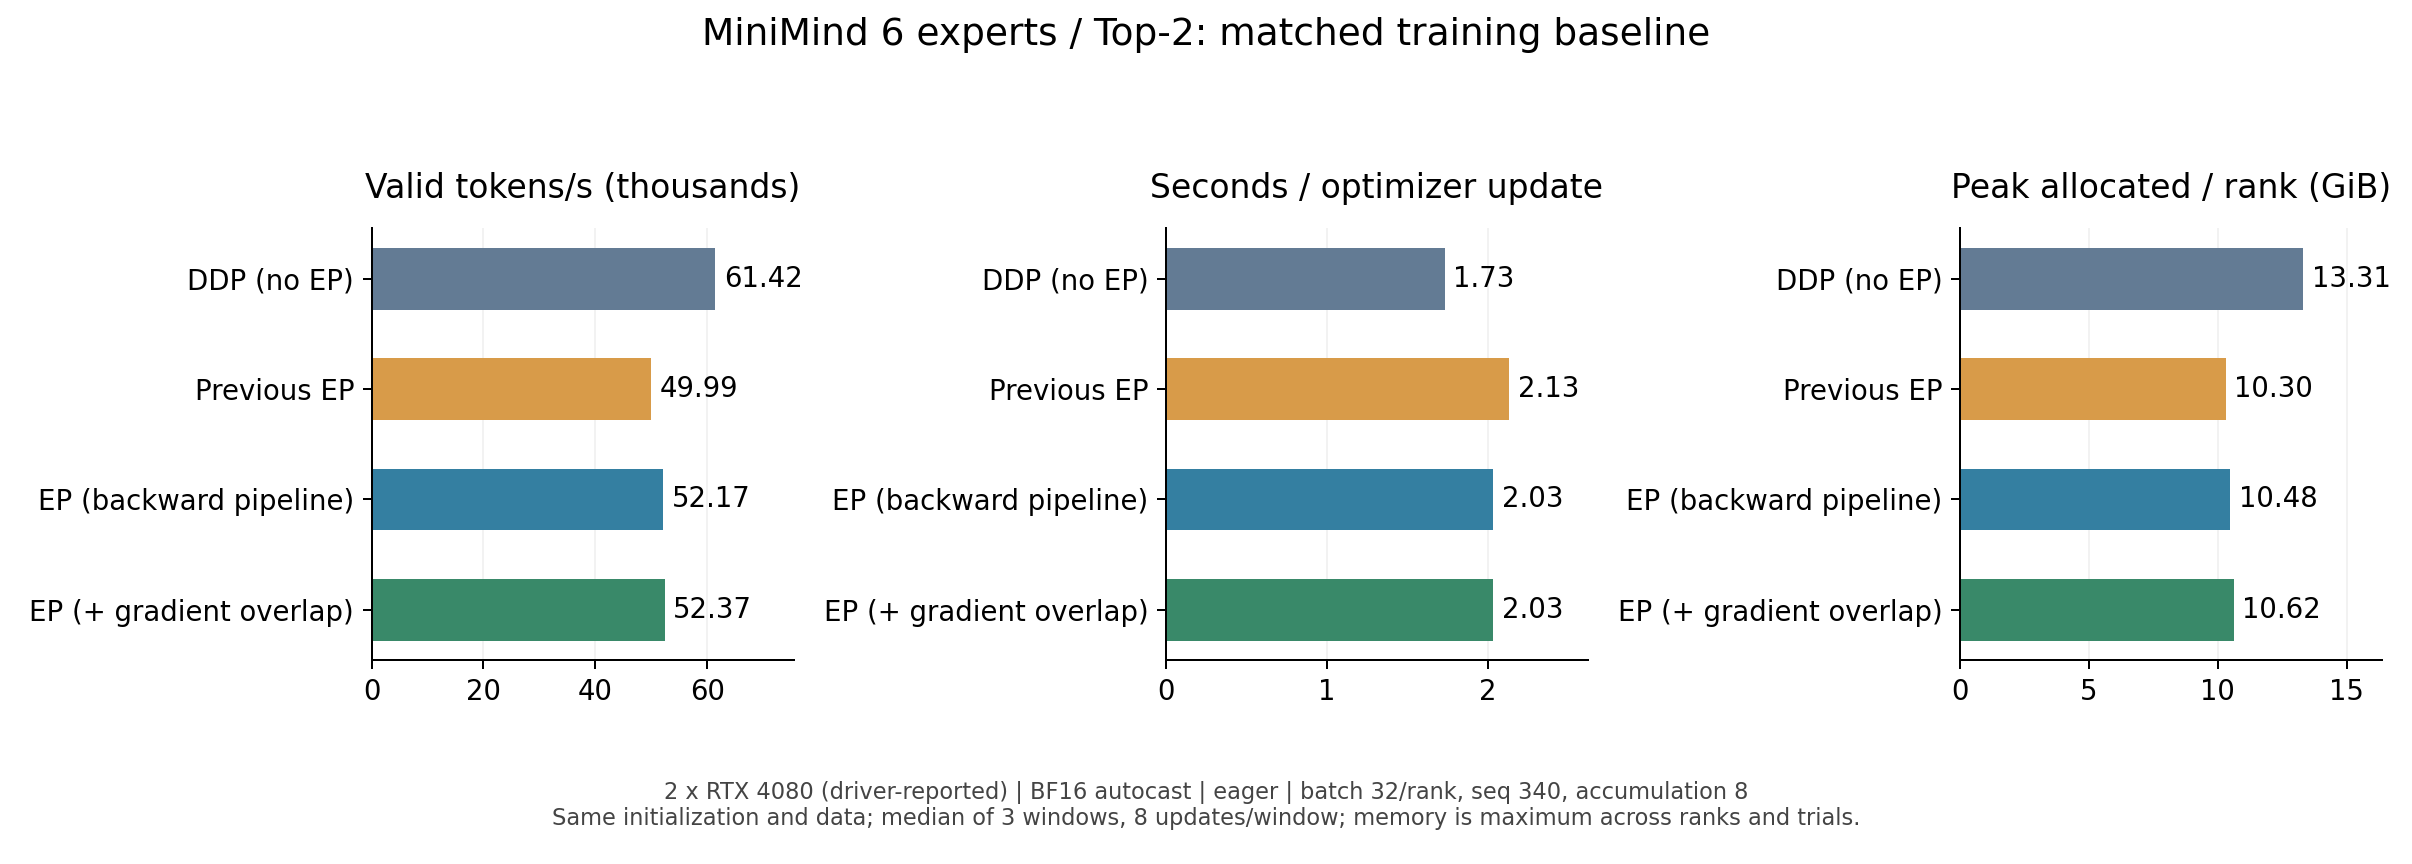
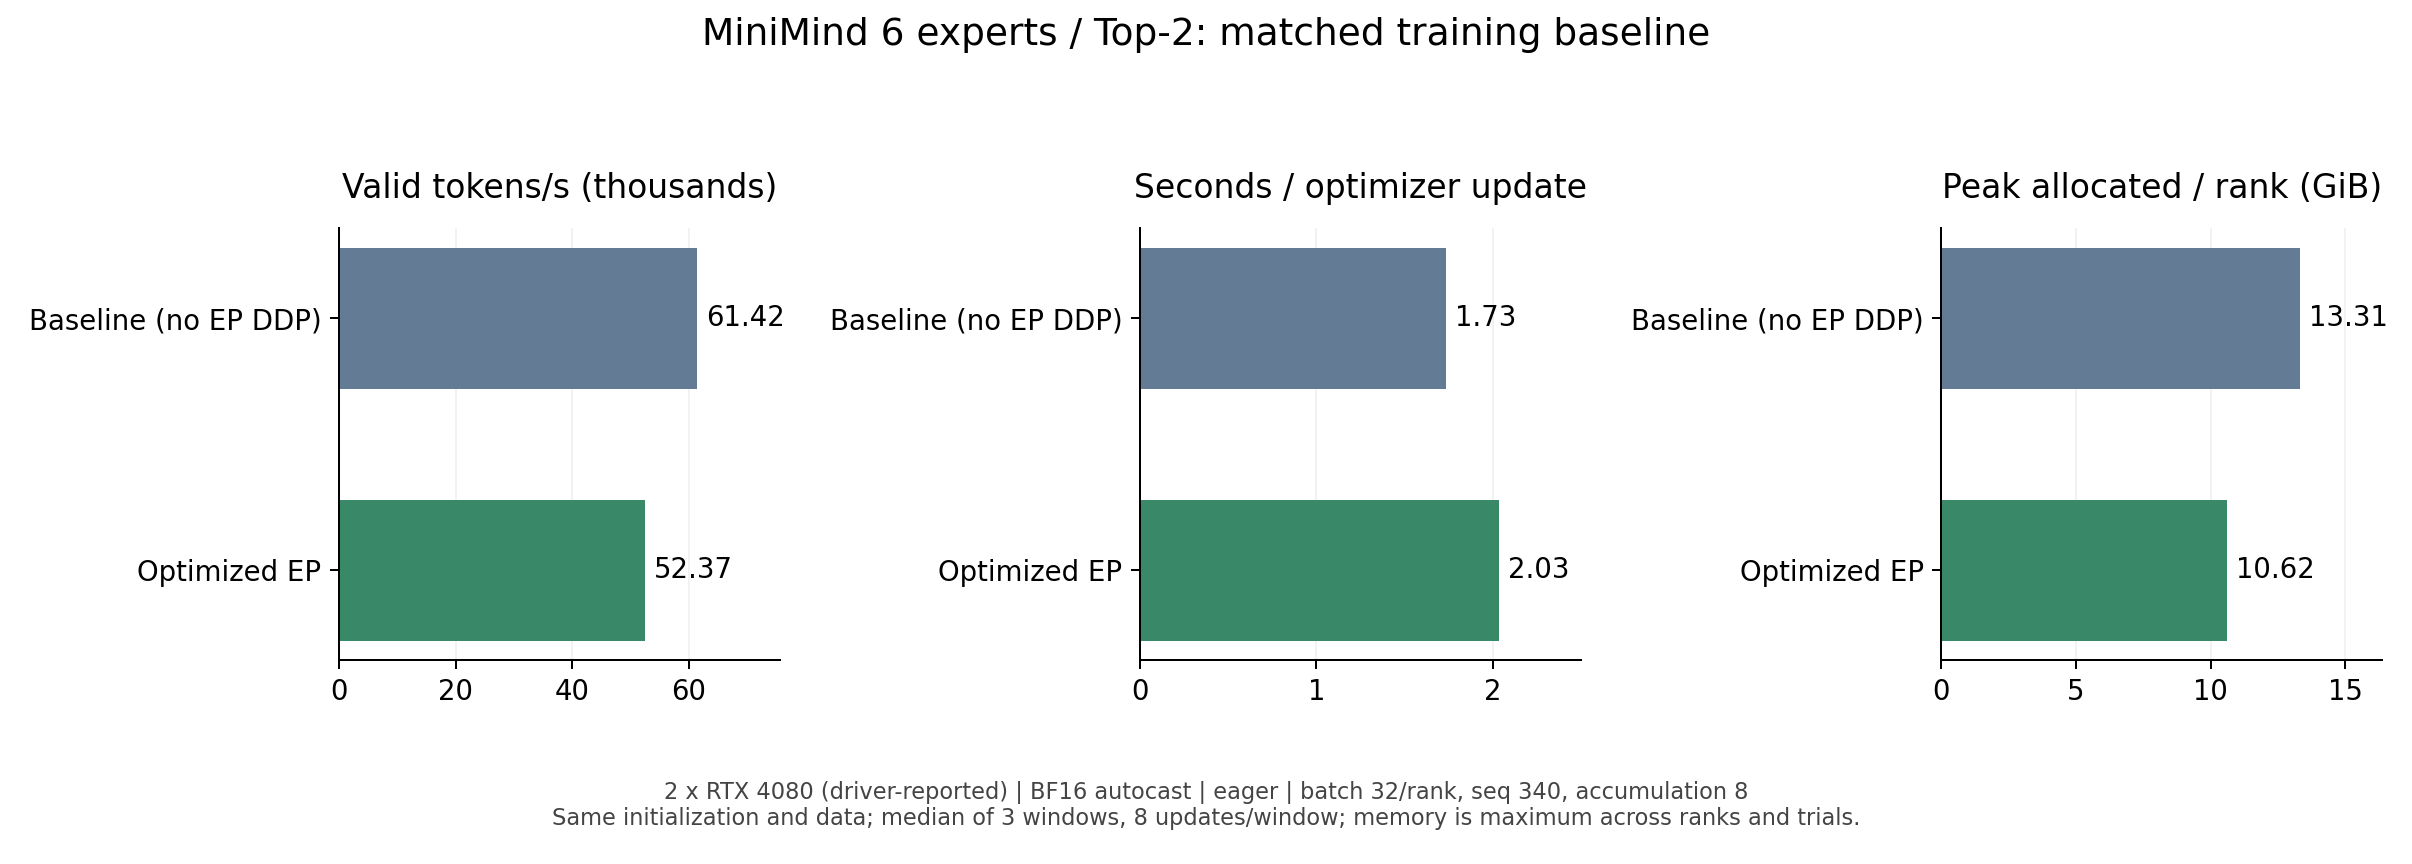
精简公开EP对比为基础版与最优版

diff --git a/readme_ep.md b/readme_ep.md
@@ -46,6 +46,7 @@ CUDA_VISIBLE_DEVICES=2,3 OMP_NUM_THREADS=1 TORCHINDUCTOR_COMPILE_THREADS=1 \
 python -m torch.distributed.run --standalone --nproc_per_node=2 train_pretrain.py \
   --use_ep --num_experts 6 --num_experts_per_tok 2 \
   --ep_comm_dtype native --ep_routing dedup_train --use_compile 1 \
+  --ep_pipelined_return 1 --ep_overlap_grad 1 \
   --from_weight none --from_resume 0 \
   --save_weight pretrain_ep6_top2_new \
   --save_dir ../out/ep6_top2_new --checkpoint_dir ../checkpoints/ep6_top2_new
@@ -55,7 +56,7 @@ python -m torch.distributed.run --standalone --nproc_per_node=2 train_pretrain.p
 
 调整专家数 / Top-K 使用对应参数；Top-K 大于 2 时选择 `compact`。全量微调沿用 `trainer/train_full_sft.py --use_ep` 的原生 EP 支持。模型 compile 使用原 `--use_compile` 开关；动态 splits 和专家空分支存在编译边界，不能将其称为完整 EP 的 fullgraph 捕获。
 
-优化预训练默认 `--ep_async_counts 1 --ep_pipelined_return 0 --ep_overlap_grad 0`。测试完整更新重叠时显式指定 `--ep_pipelined_return 1 --ep_return_bucket_mib 16 --ep_overlap_grad 1`；各 Rank 的开关、桶容量和精度必须一致。输出按实际行数发送，不传 padding；4/8/12/16 MiB 容量扫描用于选择当前配置的容量。
+优化预训练默认 `--ep_async_counts 1 --ep_pipelined_return 0 --ep_overlap_grad 0`。测试完整更新重叠时显式指定 `--ep_pipelined_return 1 --ep_return_bucket_mib 16 --ep_overlap_grad 1`；各 Rank 的开关、桶容量和精度必须一致。输出按实际行数发送，不传 padding。
 
 训练在优化器更新时同步共享参数梯度：按设备和 dtype 分组，以 `--ep_grad_bucket_mib 16` 为默认桶容量合并 All-Reduce，超大参数单独通信；本地专家梯度只除以 EP Rank 数。全局裁剪批量计算 FP32 范数并缩放梯度，共享参数计一份、专家参数计入各 Rank 的分片。归约顺序可能带来 FP32 末位差异，专家计算与 BF16 autocast 规则保持原样。
 
@@ -88,52 +89,27 @@ controller.uninstall()
 
 现有 KN 权重和 Grouped GEMM 接入保持为独立可选功能。训练默认使用原 PyTorch 专家；CUDA GEMM 全层替换需独立数值验收。KN 转换工具使用 `python -m scripts.convert_checkpoint_kn --help`。
 
-## 同配置训练对比
+## 基础版与最优版对比
 
-两张 RTX 4090D，hidden=768、8 层、6 专家 Top-2；每 Rank batch=32、seq=340、梯度累积=8，AdamW、学习率 5e-4、裁剪 1。FP32 参数和优化器状态，BF16 autocast，原 PyTorch 专家；计时关闭 compile / profile。两方案使用相同初值、输入、辅助损失和每次更新一次的梯度同步。
+基础版为当前代码的无 EP DDP 路径；默认非 EP 的输出、损失和梯度另与首次 EP 提交前的 `89d674b` 验证一致。最优版指本轮已测 EP 配置中中位吞吐最高的组合：Top-2 按 Rank 去重、异步完整计数、前向与反向回传流水、共享梯度重叠。对应 `--ep_routing dedup_train --ep_async_counts 1 --ep_pipelined_return 1 --ep_overlap_grad 1`，回传和梯度桶均为 16 MiB。
 
-3 轮交替测量，每轮 4 次预热、8 次正式更新。吞吐统计有效移位标签 Token；吞吐和每次更新时间分别取中位数，峰值显存取测量区间跨 Rank / 轮次的最大值。
+两张驱动报告为 RTX 4080 的 SM89 GPU，双向 CUDA P2P 不可用；Python 3.12.3、PyTorch 2.9.0+cu128。hidden=768、8 层、6 专家 Top-2，每 Rank batch=32、seq=340、梯度累积=8；FP32 参数与 AdamW 状态、BF16 autocast、原 PyTorch 专家，裁剪阈值 1。
+
+两版使用同初值、同输入，固定学习率 5e-4，辅助损失统一为 `local_topk_sum`，关闭 compile / profiler。每轮预热 4 次、测量 8 次完整更新，共 3 轮；每次更新包括数据加载、前向、反向、梯度同步、裁剪和 AdamW。吞吐统计有效移位标签 Token；吞吐和更新时间分别取中位数，显存取测量窗口跨 Rank / 轮次最大值。
 
 | 方案 | 有效 Token/s | 秒 / 更新 | 峰值 allocated / Rank | 峰值 reserved / Rank |
-| --- | ---: | ---: | ---: | ---: |
-| 无 EP DDP | 73,065 | 1.4489 | 13.329 GiB | 14.574 GiB |
-| 最新 Top-2 去重 EP（异步完整计数） | 72,956 | 1.4640 | 10.163 GiB | 13.350 GiB |
+|---|---:|---:|---:|---:|
+| 基础版：无 EP DDP | 61,419 | 1.7345 | 13.313 GiB | 14.564 GiB |
+| 最优版：优化 EP | 52,371 | 2.0337 | 10.620 GiB | 14.131 GiB |
 
-EP 吞吐约为 DDP 的 **99.85%**，峰值 allocated 降低 **23.75%**，主要来自专家与优化器分片。同轮当前 EP 对照中，完整异步计数方案的中位吞吐提高 **0.99%**（同轮配对提升中位数 1.24%）。回传流水虽有实际 GPU 重叠，仍略慢于仅优化计数的方案，未作为默认路径。该结果是短训练窗口，排除初始化、预热和保存，不能作为完整两轮训练耗时或模型质量结论；当前也未证明比无 EP DDP 更快。
+最优 EP 达到基础版吞吐的 **85.27%**，峰值 allocated 降低 **20.23%**。本轮结果体现了显存节省，尚未实现相对 DDP 的训练加速；“最优”仅限定为本轮已测 EP 配置。
 
-性能基线使用当前代码的无 EP DDP 路径，统一设为原非 EP 的 `local_topk_sum` 辅助损失。代码兼容检查另外直接读取 `89d674b` 的原模型；两种基线分别对应性能测量和源码回归。正式训练入口继续保留已有辅助损失默认值。
+![基础版与最优版训练对比](images/ep_overlap_training.png)
 
-![公平训练对比](images/ep_training.png)
-
-![训练显存变化](images/ep_memory.png)
+这是关闭 compile 的短训练窗口，排除初始化、预热和保存；正式入口的辅助损失默认值、学习率调度与本测试不同。compile 正确性验证通过不代表正式 compile 训练性能已经验收，以上结果不能直接换算为完整两轮预训练耗时。
 
 ## 验证与限制
 
-整理前的 CUDA 验收包含：55 组单算子值 / 梯度边界、Compute Sanitizer 的 memcheck / racecheck / synccheck、两 Rank 的空输入及 6 / 8 专家边界、FP32 梯度及两次 AdamW 更新、已训练 8 层模型的 Prefill / Decode 与生成对拍。16 个性能窗口无非有限 loss / 梯度或优化 EP 回退。
+最终版本本地 22 项检查通过；双卡每 Rank 24 项梯度契约、12 类路由边界及 Top-1/2/3/6 的 82 项配置检查通过。专家 fullgraph、整模型允许动态边界的 compile 模式下，Top-2 每 Rank 25 项检查通过。FP32 两层模型同步梯度最大差 2.2352e-8，两次 AdamW 后参数最大差 2.9404e-6，沿用原误差阈值。性能测量输入一致，loss / 梯度范数有限、优化 EP 零回退，GPU 无其他任务混入。
 
-本次目录整理验证默认非 EP 的 CPU FP32 Dense、MoE Top-1 / Top-2 与 `89d674b` 的输出、损失、梯度逐位一致，并核对最新优化路径的计算逻辑未改变。BF16 多次更新轨迹的严格重复性和模型质量需要独立评估。
-
-梯度优化验收：本地与服务器 CPU 回归各 13 项通过；每 Rank 的 24 类 CUDA 梯度契约与 10 类路由边界通过。两层模型新旧 EP 同步梯度最大差异为 0，范数差异不超过 1.20e-7，两次 AdamW 更新后的参数差异不超过 7.46e-9；两种 EP 也分别通过无 EP DDP 对照。9 个 BF16 性能窗口损失与梯度范数均有限，优化 EP 回退均为 0，选定 GPU 无其他任务混入。
-
-计数 / 回传优化验收：每 Rank 12 类路由边界 × 6 条参考与候选路径通过，含空专家、空来源和不等长输入；6 专家 Top-1/2/3/6 的全模型、BF16 值 / 梯度、推理到训练切换共 164 项检查通过。三种 EP 与 DDP 分别通过 FP32 梯度及两次 AdamW 更新对照；12 个 BF16 性能窗口均有限、零回退、选定 GPU 无外部任务混入。单独 profiler 确认前向专家 GEMM 与回传 NCCL 的区间重叠，反向及整体吞吐不据此推算。
-
-当前动态通信仍有 CPU 读取 counts 的同步，派发和输入梯度回传也存在计算依赖。前向、反向及共享梯度归约的流水并不代表所有通信已被隐藏，收益须以同条件的完整训练更新测量为准。
-
-### 完整训练更新重叠测量（RTX 4080 双卡）
-
-两张驱动报告为 RTX 4080 的 SM89 GPU，PyTorch 2.9.0+cu128 / Python 3.12.3，双向 CUDA P2P 不可用。模型与训练协议同上；以 632756a 的前向回传流水作为旧 EP，同轮比较完整更新，计时关闭 compile / profiler。每次更新包含 8 次微批前后向、梯度同步、裁剪和 AdamW；以下为三轮中位值，显存取跨 Rank / 轮次最大值。
-
-| 方案 | 有效 Token/s | 秒 / 更新 | 峰值 allocated / Rank |
-|---|---:|---:|---:|
-| 无 EP DDP | 61,419 | 1.7345 | 13.313 GiB |
-| 旧 EP（仅前向回传流水） | 49,988 | 2.1346 | 10.304 GiB |
-| EP 前向与反向回传流水 | 52,170 | 2.0346 | 10.485 GiB |
-| EP 回传流水 + 共享梯度重叠 | 52,371 | 2.0337 | 10.620 GiB |
-
-反向流水相对旧 EP 吞吐提高 **4.36%**；完整组合提高 **4.77%**，达到同轮 DDP 吞吐的 **85.27%**，峰值 allocated 比 DDP 低 **20.23%**。组合比旧 EP 多约 0.316 GiB allocated。共享梯度重叠相对仅反向流水的三轮配对增益为 +0.76%、−0.03%、−0.22%，额外收益尚不稳定，因此保持可选。当前环境建议先显式设置 `--ep_pipelined_return 1 --ep_overlap_grad 0`；完整组合使用 `--ep_overlap_grad 1`，两种桶容量均为 16 MiB。全局默认值保持不变，其他硬件需重新测量。
-
-![完整训练更新对比](images/ep_overlap_training.png)
-
-最终版本本地 22 项检查通过；双卡每 Rank 24 项梯度契约、12 类路由边界及 Top-1/2/3/6 的 82 项配置检查通过。现有 compile 方式的 Top-2 每 Rank 25 项检查通过，动态主机边界仍存在。FP32 两层模型同步梯度最大差 2.2352e-8、两次 AdamW 后参数最大差 2.9404e-6，沿用原阈值。5 个正确性任务及 15 个性能任务成功退出，同轮输入一致，30 份 Rank 性能记录均有限、零回退，GPU 无其他任务混入。
-
-单独时间线采集确认反向专家 GEMM 与回传通信重叠，共享梯度归约与反向尾部也有交集；完整更新的 NCCL / 非通信 Kernel 交集占比为两 Rank 的 20.99% / 20.04%。NCCL 区间含对端等待，交集比例不能当作加速比或关键路径节省量。动态计数、派发和输入梯度回传仍有依赖，尚未完全隐藏整步通信。这是短训练窗口的结果，不代表完整两轮训练时间或模型质量，也不与 RTX 4090D 结果混算。
+动态计数仍有 CPU 等待，派发及输入梯度回传也存在计算依赖，尚未完全隐藏整步通信。共享梯度重叠保持显式可选；训练全局默认仍为回传流水 0、梯度重叠 0，表中的最优版须使用上文列出的开关。当前结果未验证完整训练后的模型质量。
